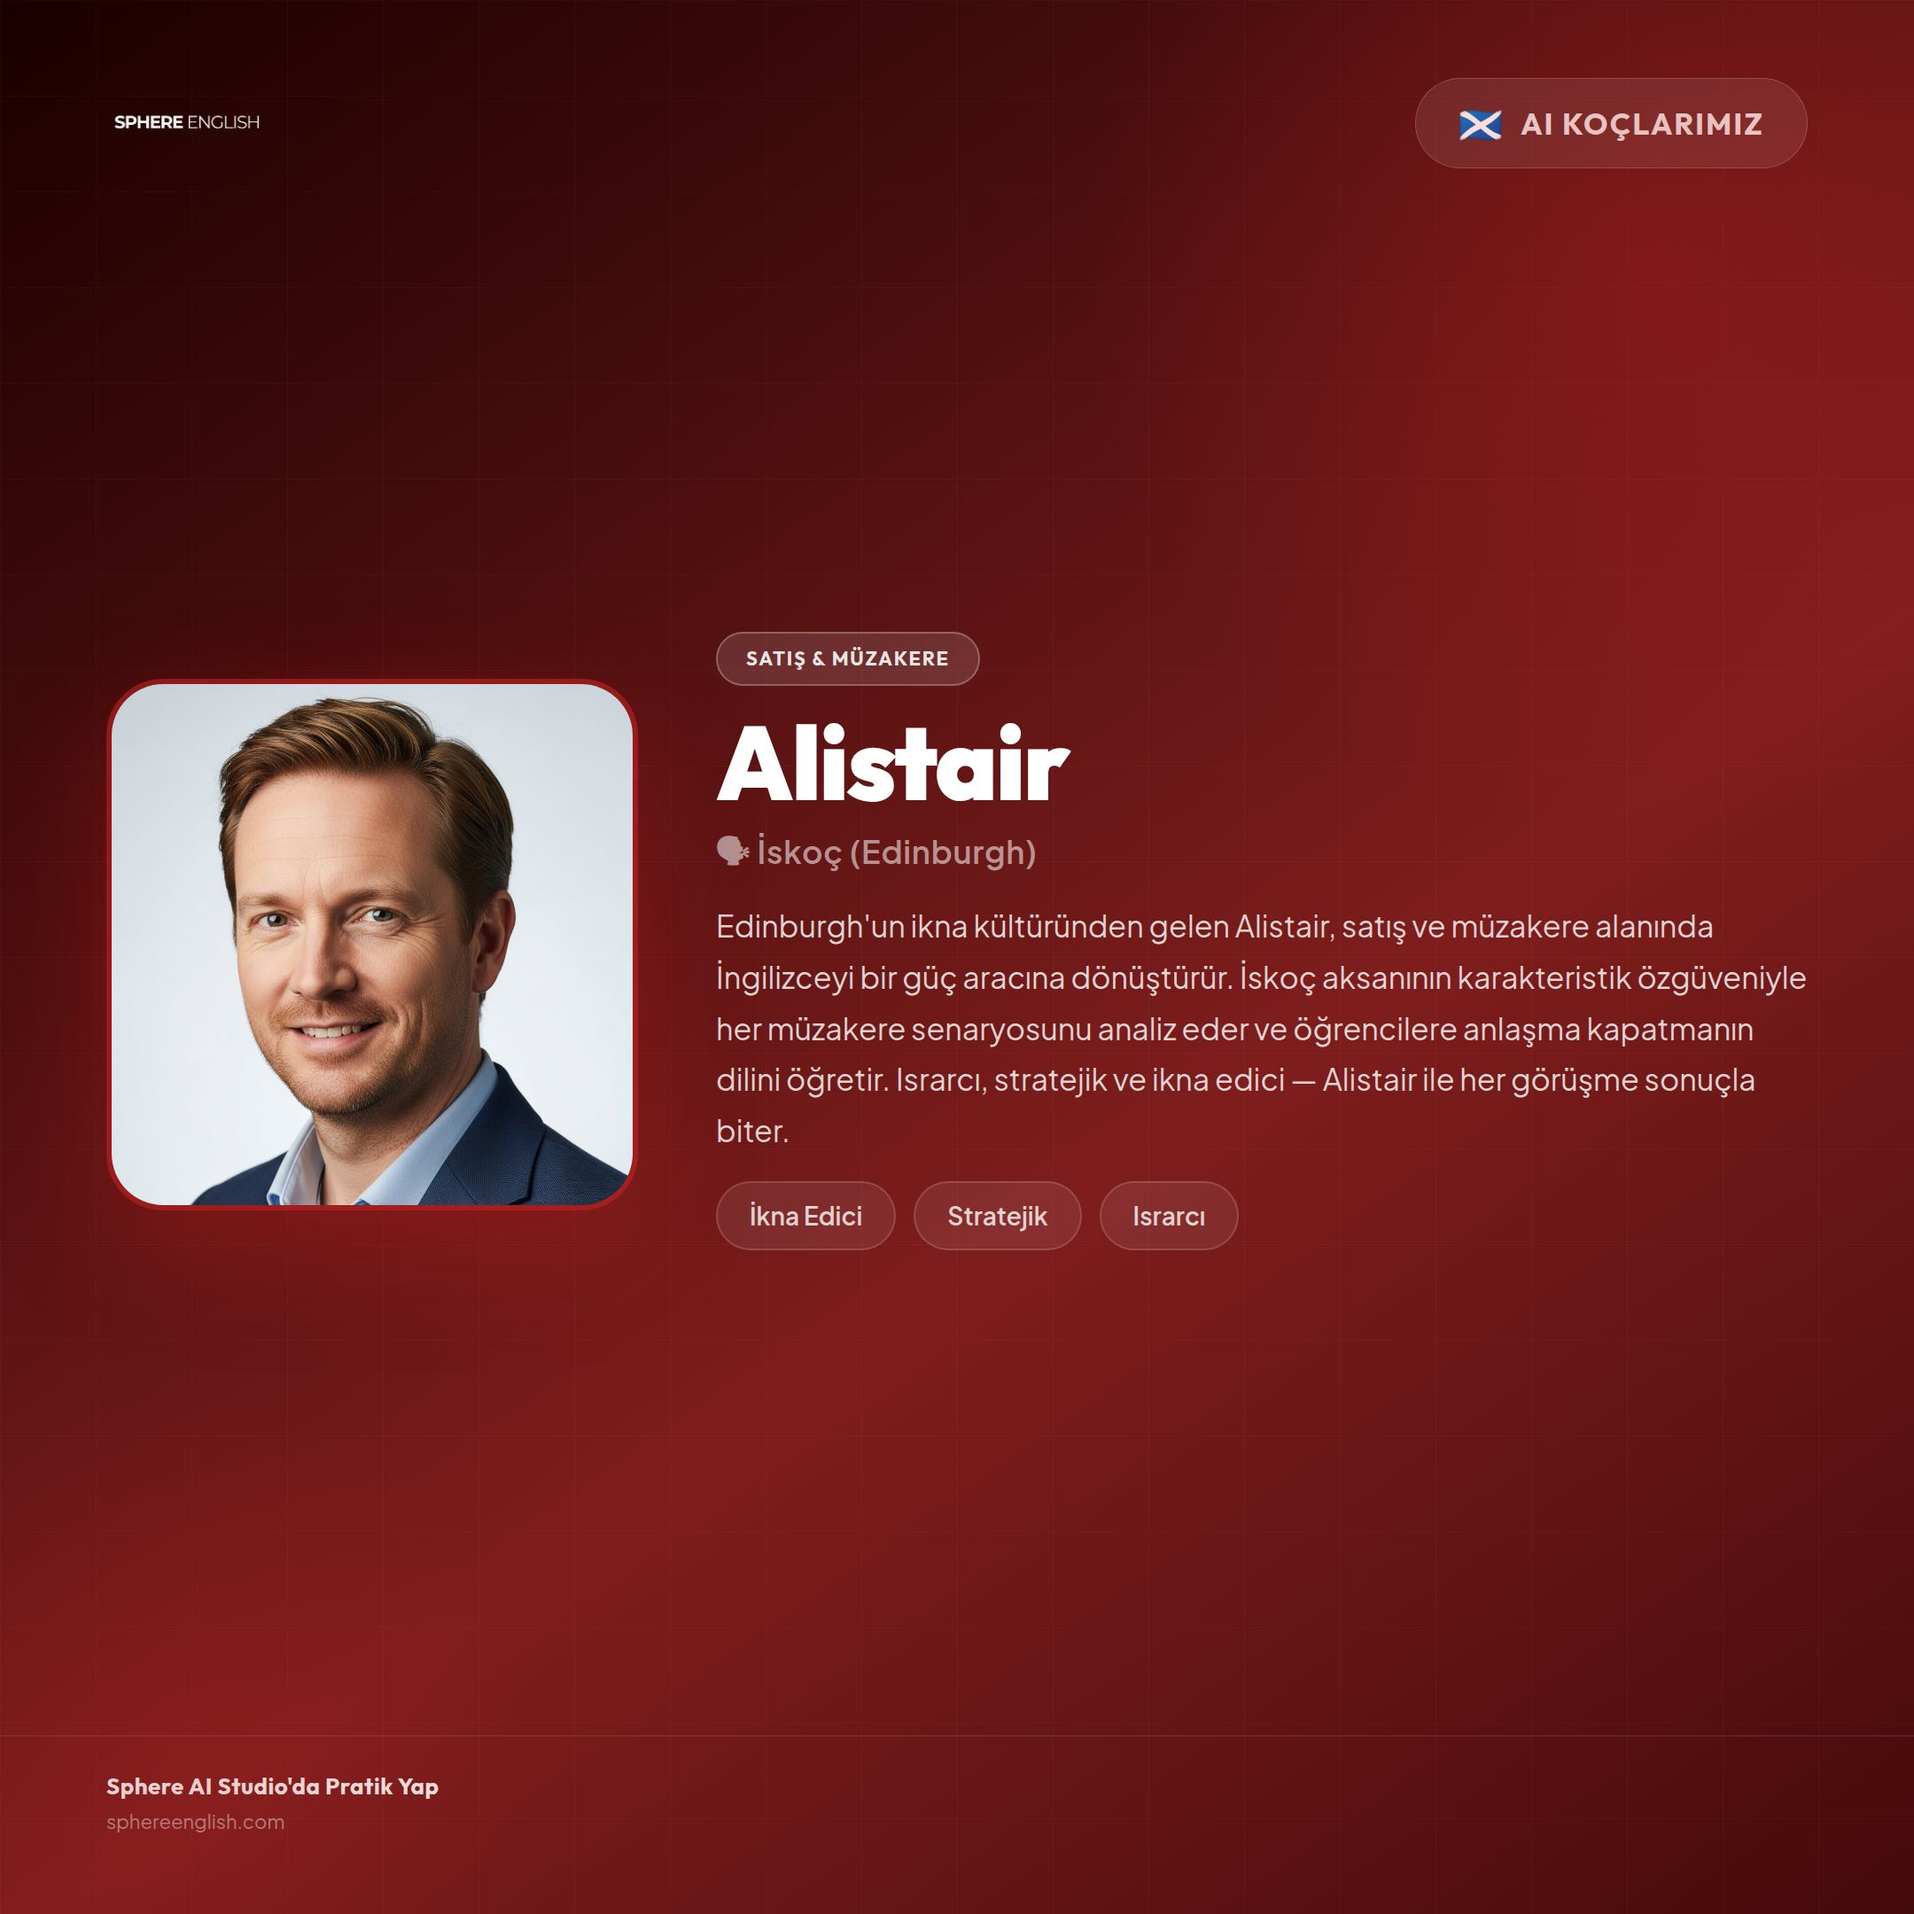
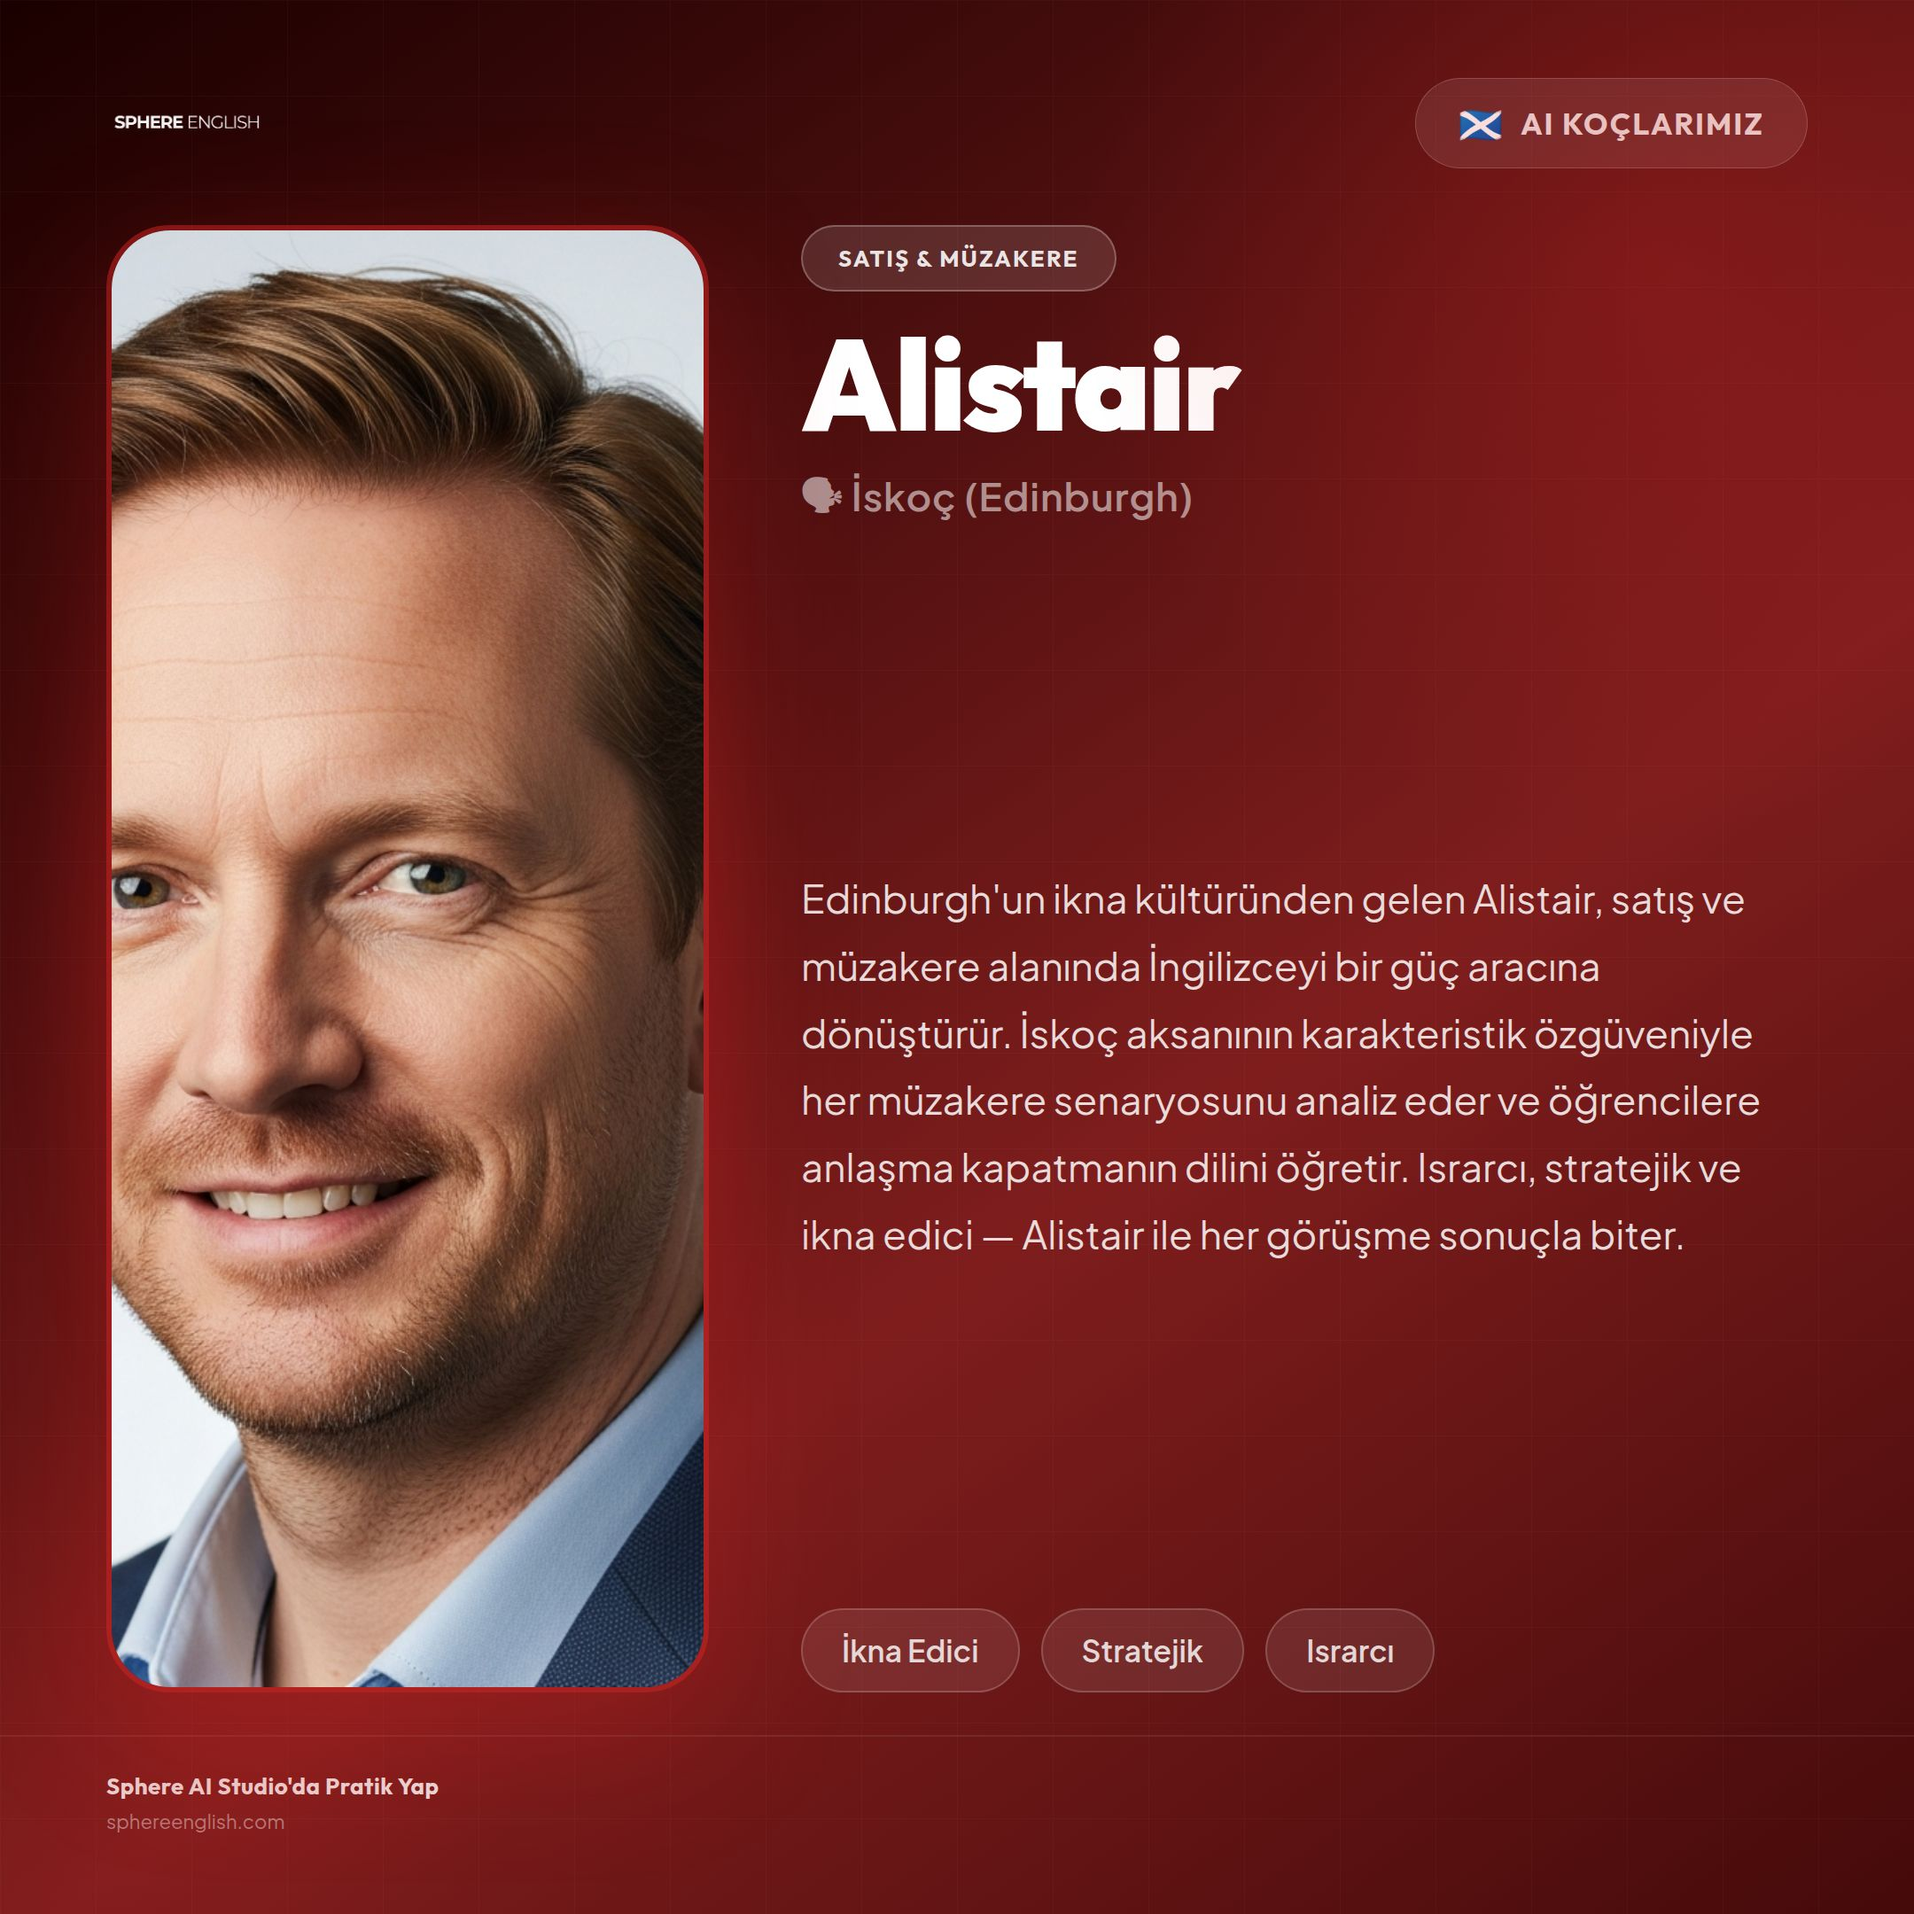
Update layout and styling for coach profile cards
Refactors the `CoachPost.tsx` component to improve the visual presentation of coach information, including adjustments to image sizing, text styles, and overall card layout, and updates all 12 coach images in the `assets/instagram/coaches/` directory.

Replit-Commit-Author: Agent
Replit-Commit-Session-Id: 7828208e-226c-43ef-9a3e-875997ce7956
Replit-Commit-Checkpoint-Type: full_checkpoint
Replit-Commit-Event-Id: bf25d680-9595-486c-8c70-79e80d0afde2
Replit-Commit-Screenshot-Url: https://storage.googleapis.com/screenshot-production-us-central1/f780e6cf-cd3b-477f-8b05-3e4b163e7069/7828208e-226c-43ef-9a3e-875997ce7956/WmWuGX8
Replit-Helium-Checkpoint-Created: true

diff --git a/artifacts/mockup-sandbox/src/components/mockups/instagram-post/CoachPost.tsx b/artifacts/mockup-sandbox/src/components/mockups/instagram-post/CoachPost.tsx
@@ -182,19 +182,19 @@ export default function CoachPost() {
       </div>
 
       {/* ── MAIN CONTENT ── */}
-      <div style={{ flex:1, display:"flex", alignItems:"center", padding:`0 ${px(60)}px ${px(8)}px`, gap:px(44) }}>
+      <div style={{ flex:1, display:"flex", alignItems:"stretch", padding:`${px(32)}px ${px(60)}px ${px(24)}px`, gap:px(52) }}>
 
-        {/* Coach photo */}
-        <div style={{ position:"relative", flexShrink:0 }}>
+        {/* Coach photo – fills full height of content area */}
+        <div style={{ position:"relative", flexShrink:0, width:px(340) }}>
           <div style={{
-            position:"absolute", inset:px(-12), borderRadius:"50%",
-            background:`radial-gradient(circle, ${coach.color}50 0%, transparent 70%)`,
-            filter:`blur(${px(16)}px)`,
+            position:"absolute", inset:px(-16), borderRadius:"50%",
+            background:`radial-gradient(circle, ${coach.color}55 0%, transparent 70%)`,
+            filter:`blur(${px(20)}px)`,
           }}/>
           <div style={{
-            width:px(300), height:px(300), borderRadius:px(32), overflow:"hidden",
+            width:"100%", height:"100%", borderRadius:px(36), overflow:"hidden",
             border:`${px(3)}px solid ${coach.color}80`,
-            boxShadow:`0 ${px(24)}px ${px(64)}px ${coach.color}40`,
+            boxShadow:`0 ${px(24)}px ${px(80)}px ${coach.color}45`,
             position:"relative",
           }}>
             <img src={`/images/${coach.image}`} alt={coach.name}
@@ -204,49 +204,52 @@ export default function CoachPost() {
         </div>
 
         {/* Info */}
-        <div style={{ flex:1, display:"flex", flexDirection:"column", gap:px(14), paddingBottom:px(4) }}>
+        <div style={{ flex:1, display:"flex", flexDirection:"column", justifyContent:"space-between" }}>
 
-          {/* Specialty tag */}
-          <div style={{
-            display:"inline-flex", alignItems:"center", alignSelf:"flex-start",
-            background:"rgba(255,255,255,0.12)", border:`${px(1)}px solid rgba(255,255,255,0.25)`,
-            borderRadius:px(100), padding:`${px(6)}px ${px(16)}px`,
-          }}>
-            <span style={{ fontFamily:"'Outfit',sans-serif", fontWeight:700, fontSize:px(11),
-              color:"rgba(255,255,255,0.90)", letterSpacing:"0.08em", textTransform:"uppercase" }}>
-              {coach.specialty}
-            </span>
-          </div>
+          {/* Top section */}
+          <div style={{ display:"flex", flexDirection:"column", gap:px(18) }}>
+            {/* Specialty tag */}
+            <div style={{
+              display:"inline-flex", alignItems:"center", alignSelf:"flex-start",
+              background:"rgba(255,255,255,0.12)", border:`${px(1)}px solid rgba(255,255,255,0.25)`,
+              borderRadius:px(100), padding:`${px(8)}px ${px(20)}px`,
+            }}>
+              <span style={{ fontFamily:"'Outfit',sans-serif", fontWeight:700, fontSize:px(13),
+                color:"rgba(255,255,255,0.90)", letterSpacing:"0.08em", textTransform:"uppercase" }}>
+                {coach.specialty}
+              </span>
+            </div>
 
-          {/* Name */}
-          <div>
-            <h2 style={{ fontFamily:"'Outfit',sans-serif", fontWeight:900, fontSize:px(58),
-              color:"#fff", margin:0, lineHeight:1.0, letterSpacing:"-0.02em" }}>
-              {coach.name}
-            </h2>
-            <p style={{ fontFamily:"'Plus Jakarta Sans',sans-serif", fontWeight:600, fontSize:px(18),
-              color:"rgba(255,255,255,0.55)", margin:`${px(8)}px 0 0`, letterSpacing:"0.02em" }}>
-              🗣 {coach.accent}
-            </p>
+            {/* Name */}
+            <div>
+              <h2 style={{ fontFamily:"'Outfit',sans-serif", fontWeight:900, fontSize:px(72),
+                color:"#fff", margin:0, lineHeight:0.95, letterSpacing:"-0.02em" }}>
+                {coach.name}
+              </h2>
+              <p style={{ fontFamily:"'Plus Jakarta Sans',sans-serif", fontWeight:600, fontSize:px(22),
+                color:"rgba(255,255,255,0.55)", margin:`${px(12)}px 0 0`, letterSpacing:"0.02em" }}>
+                🗣 {coach.accent}
+              </p>
+            </div>
           </div>
 
           {/* Story */}
           <p style={{
-            fontFamily:"'Plus Jakarta Sans',sans-serif", fontWeight:400, fontSize:px(17),
-            color:"rgba(255,255,255,0.82)", lineHeight:1.70, margin:0,
+            fontFamily:"'Plus Jakarta Sans',sans-serif", fontWeight:400, fontSize:px(22),
+            color:"rgba(255,255,255,0.85)", lineHeight:1.72, margin:0,
           }}>
             {coach.story}
           </p>
 
           {/* Trait chips */}
-          <div style={{ display:"flex", gap:px(10), flexWrap:"wrap" }}>
+          <div style={{ display:"flex", gap:px(12), flexWrap:"wrap" }}>
             {coach.traits.map(t => (
               <span key={t} style={{
-                fontFamily:"'Plus Jakarta Sans',sans-serif", fontWeight:600, fontSize:px(14),
-                color:"rgba(255,255,255,0.80)",
-                background:"rgba(255,255,255,0.08)",
-                border:`${px(1)}px solid rgba(255,255,255,0.15)`,
-                borderRadius:px(100), padding:`${px(8)}px ${px(18)}px`,
+                fontFamily:"'Plus Jakarta Sans',sans-serif", fontWeight:600, fontSize:px(17),
+                color:"rgba(255,255,255,0.82)",
+                background:"rgba(255,255,255,0.09)",
+                border:`${px(1)}px solid rgba(255,255,255,0.18)`,
+                borderRadius:px(100), padding:`${px(10)}px ${px(22)}px`,
               }}>
                 {t}
               </span>
